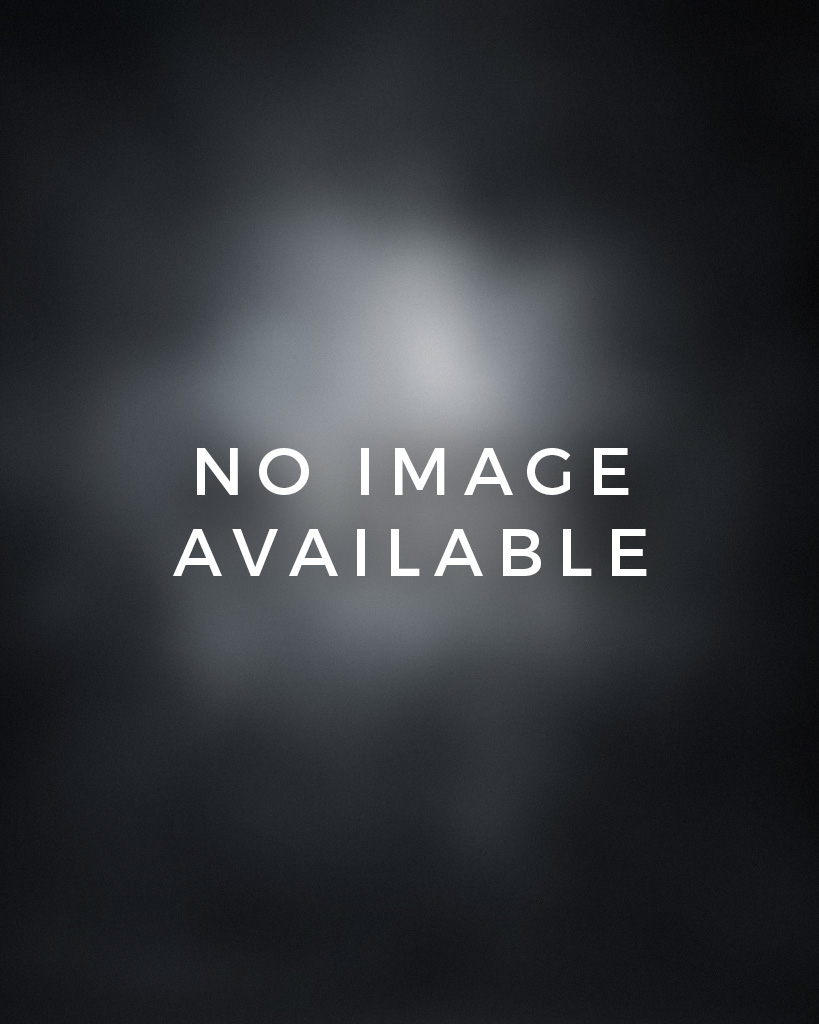
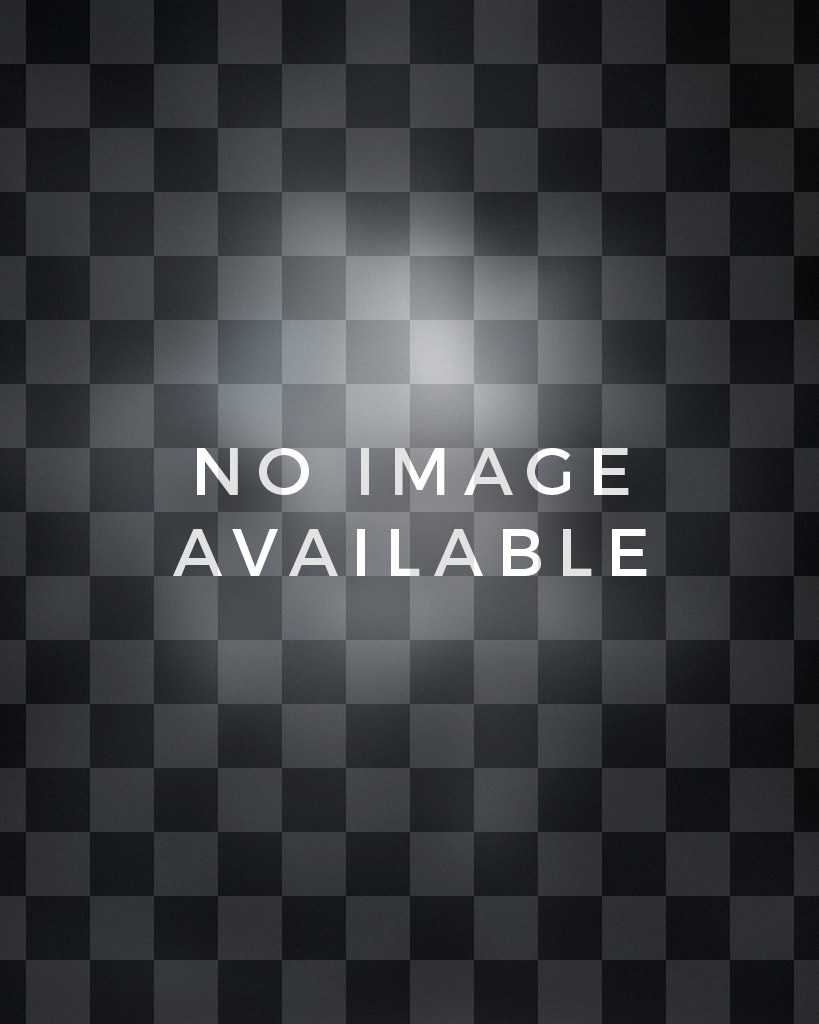
Added frames, fixed bugs
- Added overlay frames for pictures
- added new placeholder (empy)

css
- Updated quote font parameters
- added class for grad-pic, and scaled down the image

js
- fixed bug when the corner peek is not visible enough when browser is zoomed in, made it by % instead of fixed

diff --git a/assets/js/script.js b/assets/js/script.js
@@ -123,7 +123,19 @@ const vu = "MlBBQ1gtMXZRNjRXbldZQXgtN2N0Vzg4Q1FhWENnS3BhV1NXNTBsa1VmbS1OVFhzaHd4
 const rl = "cHViP291dHB1dD1jc3Y=";
 
 const placeholders = [
-  'placeholder_0.jpg',
+  'placeholder.jpg'
+];
+const imageFrames = [
+  'frame_1.png',
+  'frame_2.png',
+  'frame_3.png',
+  'frame_4.png',
+  'frame_5.png',
+  'frame_6.png',
+  'frame_7.png',
+  'frame_8.png',
+  'frame_9.png',
+  'frame_10.png',
 ];
 
 // #region Loading CSV
@@ -220,8 +232,15 @@ function convertDriveLinkToEmbed(input) {
 function getRandomPlaceholder(){
   const randomIndex = Math.floor(Math.random() * placeholders.length);
   const randomItem = placeholders[randomIndex];
-
+  
   return `./assets/img/placeholders/${randomItem}`;
+}
+
+function getRandomImageFrame(){
+  const randomIndex = Math.floor(Math.random() * imageFrames.length);
+  const randomItem = imageFrames[randomIndex];
+  
+  return `./assets/img/frames/${randomItem}`;
 }
 
 function getRandomRotation(){
@@ -947,7 +966,7 @@ function computeTarget(flip, pointerX, pointerY) {
 
 // Hovering near an outer corner with a mouse makes the page peel slightly.
 function findHoverCorner(pointerX, pointerY) {
-  const zone = Math.min(90, pageWidth * 0.2);
+  const zone = pageWidth * 0.15;
   let direction = 0;
   if (
     pointerX > spreadWidth - zone &&
@@ -1100,7 +1119,7 @@ function handlePointerMove(event) {
 
     const peekDistance = flipInstance.isHardCover
       ? pageWidth * 0.03
-      : Math.min(60, pageWidth * 0.12);
+      : pageWidth * 0.12;
 
     flipInstance.isLeaving = false;
 
@@ -1409,8 +1428,8 @@ function AddPagesFromData(pages, data) {
     const studentsHtml = students.map(student => `
       <div class="student-container">
         <div class="image-wrapper" style="transform: rotate(${getRandomRotation()}deg);">
-          <img src="${convertDriveLinkToEmbed(student["Image URL (Drive)"]) || getRandomPlaceholder()}" alt="${student.Name}">
-          
+          <img class="grad-pic" src="${convertDriveLinkToEmbed(student["Image URL (Drive)"]) || getRandomPlaceholder()}" alt="${student.Name}">
+          <img src="${getRandomImageFrame()}">
         </div>
         <div class="student-info">
           <div class="student-name">${student.Name}</div>
@@ -1563,7 +1582,7 @@ async function initialize() {
 
   layoutBook();
   
-  //skipToPage(15, {instantAnimate: true});
+  skipToPage(17, {instantAnimate: true});
 }
 
 initialize();

diff --git a/assets/css/style.css b/assets/css/style.css
@@ -439,11 +439,10 @@ body {
 
 .graduates-page .image-wrapper {
     width: 100%;
-    aspect-ratio: 3 / 4;
-    border: 0.05em solid white;
+    aspect-ratio: 4 / 5;
+    /* border: 0.05em solid white; */
     box-sizing: border-box;
     overflow: hidden;
-    background: rgba(0, 0, 0, 0.3); 
     position: relative;
     
     -webkit-user-drag: none;
@@ -461,6 +460,10 @@ body {
     display: block;
 }
 
+.image-wrapper .grad-pic{
+    transform: scale(0.93);
+}
+
 /* Student Info Text */
 .graduates-page .student-info {
     margin-top: 6px;
@@ -476,15 +479,31 @@ body {
 }
 
 .graduates-page .student-quote {
-    font-family: "ReenieBeanie";
-    font-size: 0.8em;
+    /* font-family: "ReenieBeanie"; */
+    font-size: 0.5em;
     opacity: 0.85;
     margin-top: 0.15em;
-    line-height: 0.8em;
-
+    line-height: 1.1em;
+    font-style: italic;
+    font-weight: 400;
+    
     display: -webkit-box;
     -webkit-box-orient: vertical;
     -webkit-line-clamp: 5;
     line-clamp: 5; 
     overflow: hidden;
 }
+
+/* .graduates-page .student-quote {
+    font-family: "ReenieBeanie";
+    font-size: 0.8em;
+    opacity: 0.85;
+    margin-top: 0.15em;
+    line-height: 0.8em;
+    
+    display: -webkit-box;
+    -webkit-box-orient: vertical;
+    -webkit-line-clamp: 5;
+    line-clamp: 5; 
+    overflow: hidden;
+} */
